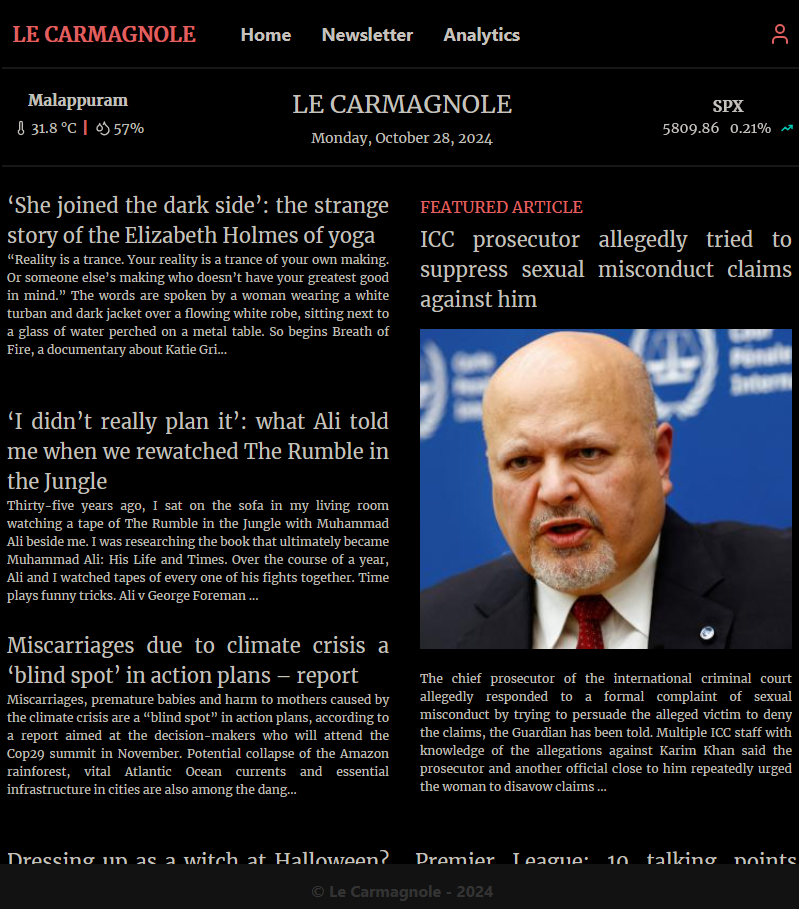
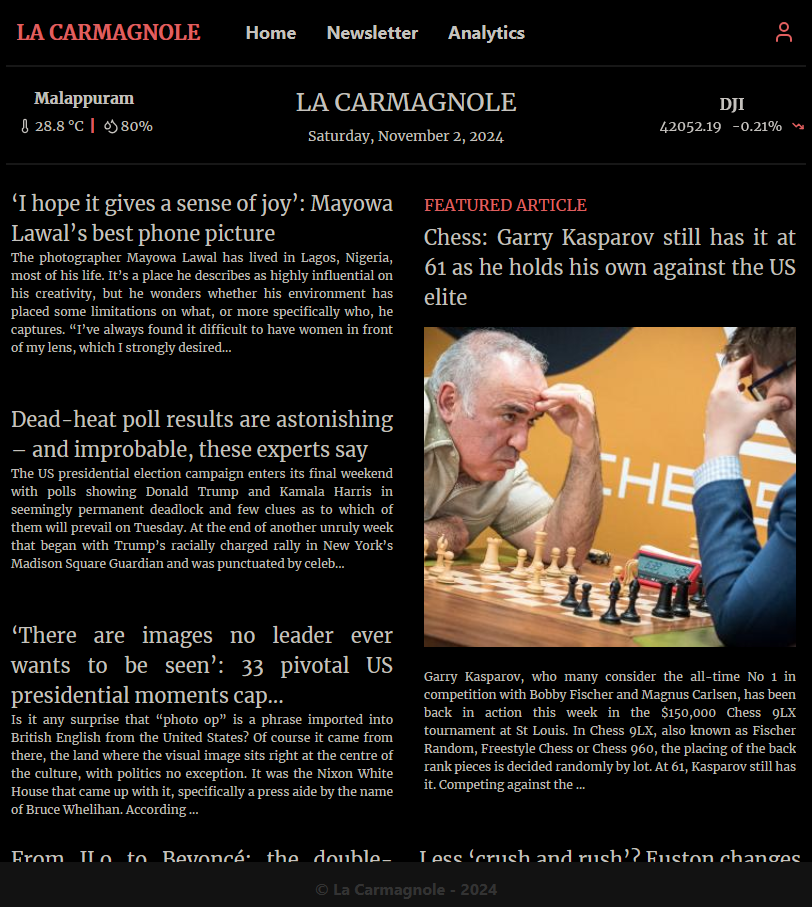
updated sceenshots

diff --git a/index.html b/index.html
@@ -224,9 +224,9 @@
               <div class="portfolio-content h-100">
                 <img src="assets/img/portfolio/App1.png" class="img-fluid object-fit-contain" alt="">
                 <div class="portfolio-info">
-                  <h4>Le Carmagnole</h4>
+                  <h4>La Carmagnole</h4>
                   <p>News Website with NLP analytics, newsletters and live market data</p>
-                  <a href="assets/img/portfolio/App1-zoom.png" title="Le Carmagnole" data-gallery="portfolio-gallery-app" class="glightbox preview-link"><i class="bi bi-zoom-in"></i></a>
+                  <a href="assets/img/portfolio/App1-zoom.png" title="La Carmagnole" data-gallery="portfolio-gallery-app" class="glightbox preview-link"><i class="bi bi-zoom-in"></i></a>
                   <a href="https://carmagnole.ohnoimded.com" title="More Details" class="details-link"><i class="bi bi-link-45deg"></i></a>
                 </div>
               </div>
